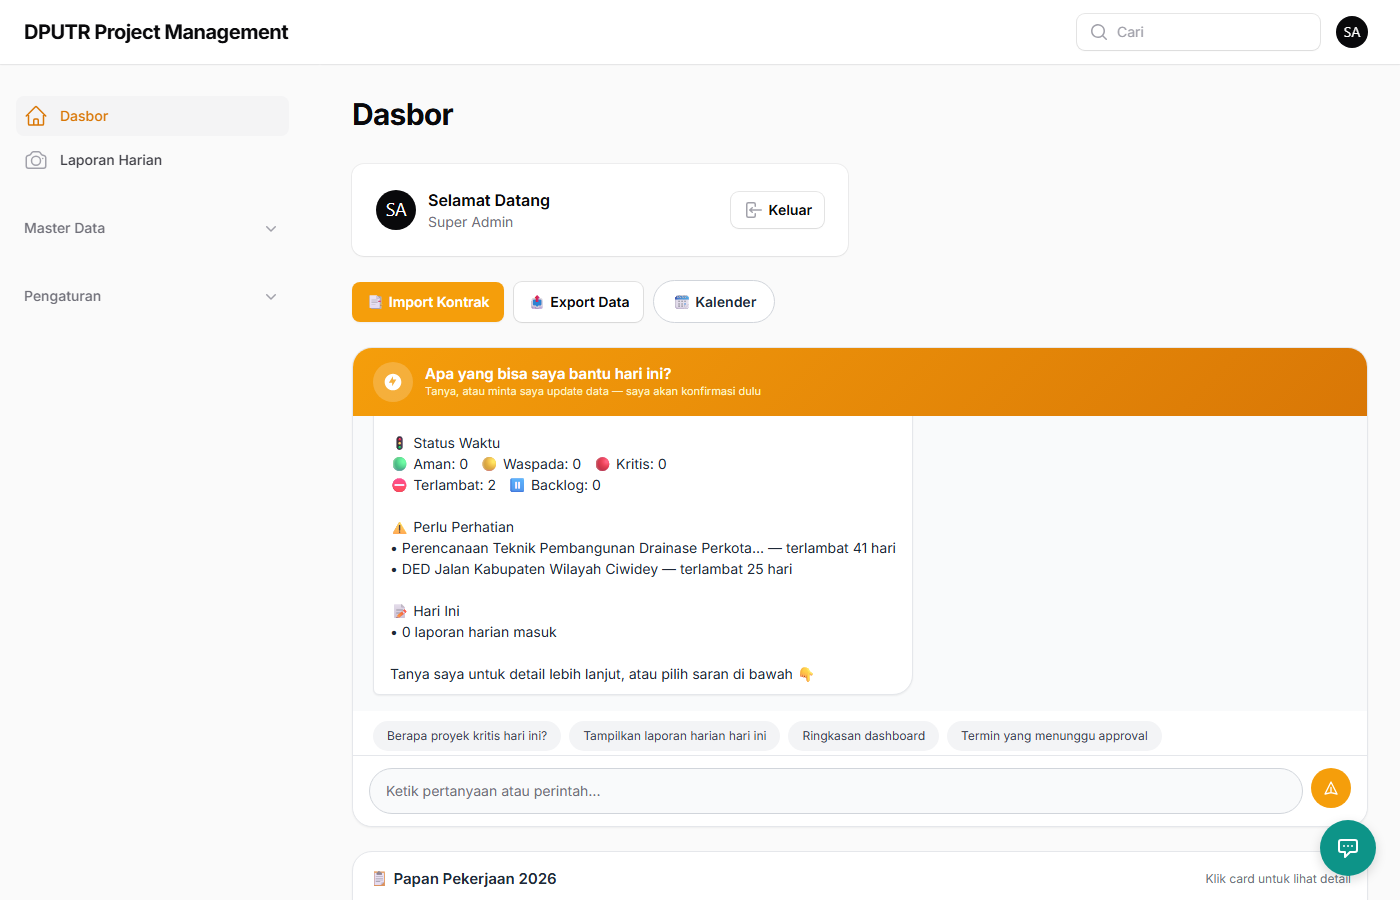
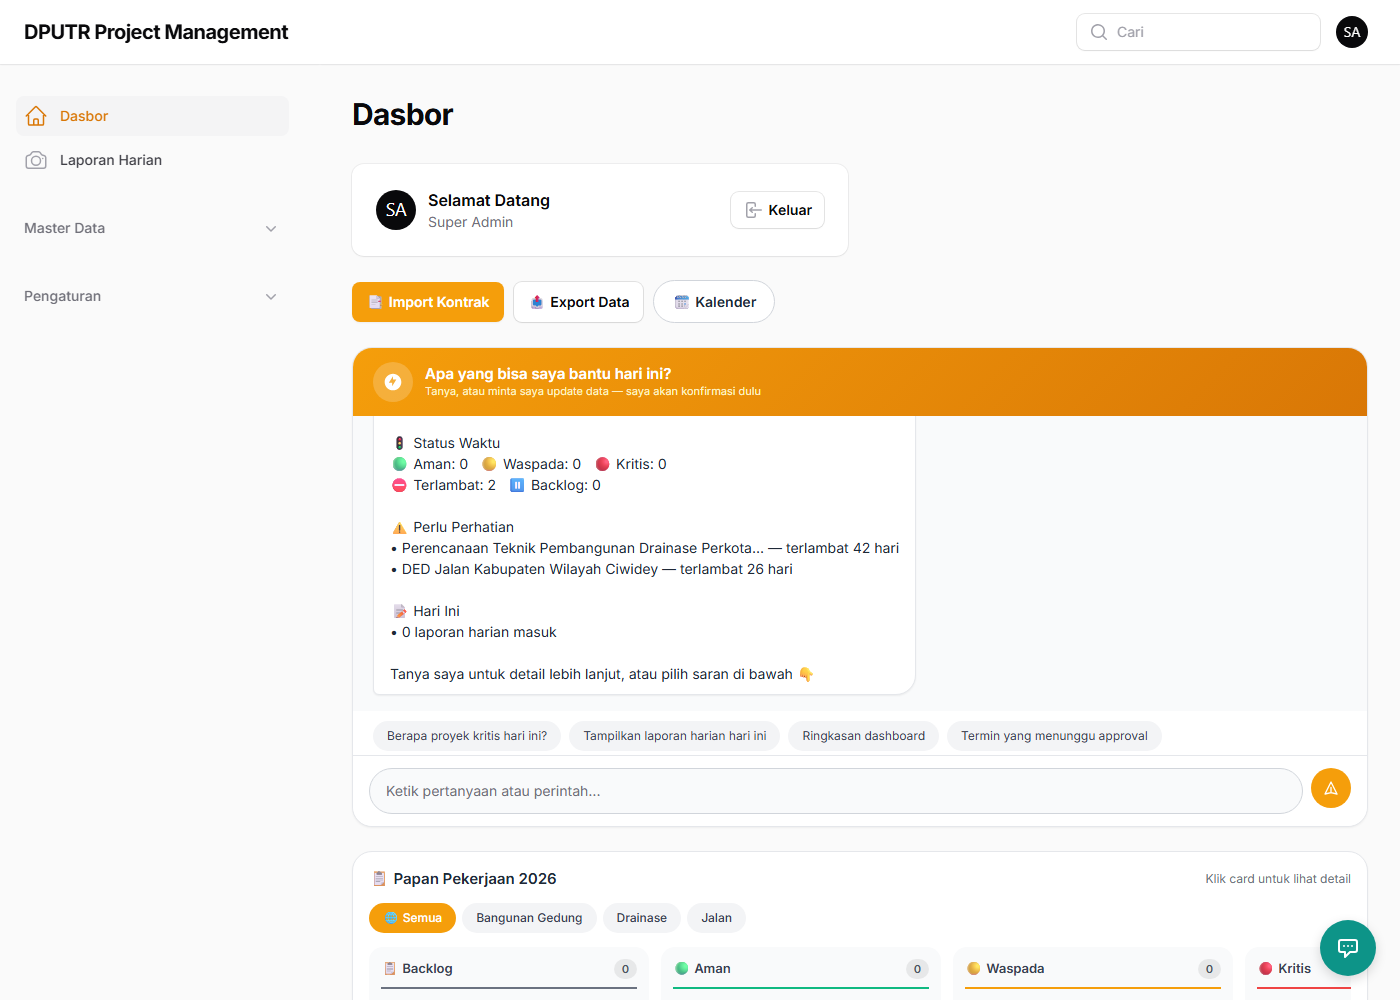
docs: integrate detail tabs, form, filter & master data screenshots
- Add 8 new screenshots (20-tabs overview, 21-form, 22a-d filter tabs, 23-bidang, 24-settings-full)
- Update KARTA_GUIDEBOOK.md to reference them in Pekerjaan & Master Data sections
- Regenerate Karta_Guidebook.pdf (6.4 MB)

diff --git a/docs/KARTA_GUIDEBOOK.md b/docs/KARTA_GUIDEBOOK.md
@@ -508,6 +508,10 @@ Klik **Buka Detail Lengkap** → halaman detail Pekerjaan dengan 7 tab horizonta
 
 ![Pekerjaan Detail](./screenshots/10-pekerjaan-detail.png)
 
+Tampilan full page dengan section info pekerjaan + tab navigator di bawah:
+
+![Pekerjaan Detail Full Page](./screenshots/20-pekerjaan-tabs-overview.png)
+
 | Tab | Isinya |
 |---|---|
 | **Personil** | Daftar tenaga ahli yang assigned + jabatan + honor |
@@ -525,6 +529,25 @@ Kalau perlu daftar semua proyek:
 ![Pekerjaan List](./screenshots/09-pekerjaan-list.png)
 
 URL: `/admin/pekerjaans` (atau klik card di Kanban).
+
+### Filter Tab di Pekerjaan List
+
+Di atas tabel ada filter tab cepat — klik untuk filter tanpa buka panel:
+
+| Filter | Tampilan |
+|---|---|
+| **Tahun 2026** — semua proyek tahun aktif | ![Filter Tahun 2026](./screenshots/22a-filter-tahun-2026.png) |
+| **Sedang Berjalan** — proyek aktif | ![Filter Sedang Berjalan](./screenshots/22b-filter-sedang-berjalan.png) |
+| **Terlambat** — yang lewat deadline | ![Filter Terlambat](./screenshots/22c-filter-terlambat.png) |
+| **Selesai** — yang sudah closeout | ![Filter Selesai](./screenshots/22d-filter-selesai.png) |
+
+### Form Tambah Pekerjaan Manual
+
+Kalau tidak pakai Import Kontrak, klik **Tambah Pekerjaan** untuk input manual:
+
+![Form Tambah Pekerjaan](./screenshots/21-form-tambah-pekerjaan.png)
+
+Form dengan field-field standar: Bidang, Jenis Pekerjaan, Vendor, No SPK/SPMK, Nilai Pagu/Kontrak, Tanggal Mulai/Akhir.
 
 ---
 
@@ -647,6 +670,12 @@ Esok pagi, Bendahara siap kerja sebelum sampai kantor.
 
 ## Master Data Pages
 
+### 🏢 Bidang
+
+![Master Bidang](./screenshots/23-master-bidang.png)
+
+Daftar bidang/divisi (Jalan, Drainase, Jembatan, dst). Tiap pekerjaan harus dipasangkan ke 1 bidang.
+
 ### 🏢 Perusahaan
 
 ![Master Perusahaan](./screenshots/15-master-perusahaan.png)
@@ -673,7 +702,7 @@ CRUD user, assign role:
 
 ## System Settings
 
-![System Settings](./screenshots/13-system-settings.png)
+![System Settings](./screenshots/24-system-settings-full.png)
 
 Setting global aplikasi (super_admin only):
 - **Informasi Instansi** — nama, alamat, telepon